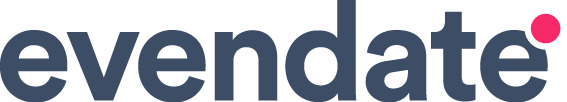
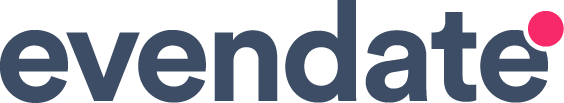
Minor changes in brand

diff --git a/calendar.php b/calendar.php
@@ -206,17 +206,9 @@ $user_full_name = $user->getLastName().' '.$user->getFirstName(); ?>
 
 <aside id="main_sidebar" class="-unselectable">
 	<div class="brand_block Controller" data-page="feed" data-feed_state="timeline" data-title="События">
-		<svg width="140px" height="25px" viewBox="0 0 140 25" version="1.1" xmlns="http://www.w3.org/2000/svg" xmlns:xlink="http://www.w3.org/1999/xlink">
-			<defs>
-				<circle id="evendate_logo_dot" cx="131" cy="7" r="4.3"></circle>
-			</defs>
-			<g fill="none" fill-rule="evenodd">
-				<path id="evendate_logo_text" fill="#9fa6b3" d="M4.50442993,14.1854218 C4.60423908,12.6878788 5.8684882,10.9573847 8.16409844,10.9573847 C10.6925967,10.9573847 11.7572275,12.5547639 11.823767,14.1854218 L4.50442993,14.1854218 Z M12.2562732,18.4450996 C11.7239578,19.9093639 10.5927875,20.9410046 8.53006529,20.9410046 C6.33426419,20.9410046 4.50442993,19.3769042 4.40462079,17.2137865 L16.11556,17.2137865 C16.11556,17.147229 16.1820994,16.4816544 16.1820994,15.8493584 C16.1820994,10.5913186 13.1545555,7.36328146 8.09755902,7.36328146 C3.90557509,7.36328146 0.0462882973,10.7577123 0.0462882973,15.9824734 C0.0462882973,21.5067431 4.00538423,24.7347802 8.49679558,24.7347802 C12.5224309,24.7347802 15.1174686,22.3719902 15.9492115,19.5432978 L12.2562732,18.4450996 Z M33.5250226,7.86246246 L28.8672627,7.86246246 L24.9747062,18.8444444 L20.9158011,7.86246246 L16.0584229,7.86246246 L22.7456353,24.2355992 L27.1705073,24.2355992 L33.5250226,7.86246246 Z M37.6931391,14.1854218 C37.7929482,12.6878788 39.0571974,10.9573847 41.3528076,10.9573847 C43.8813059,10.9573847 44.9459367,12.5547639 45.0124761,14.1854218 L37.6931391,14.1854218 Z M45.4449824,18.4450996 C44.912667,19.9093639 43.7814967,20.9410046 41.7187745,20.9410046 C39.5229734,20.9410046 37.6931391,19.3769042 37.59333,17.2137865 L49.3042692,17.2137865 C49.3042692,17.147229 49.3708086,16.4816544 49.3708086,15.8493584 C49.3708086,10.5913186 46.3432647,7.36328146 41.2862682,7.36328146 C37.0942843,7.36328146 33.2349975,10.7577123 33.2349975,15.9824734 C33.2349975,21.5067431 37.1940934,24.7347802 41.6855048,24.7347802 C45.7111401,24.7347802 48.3061778,22.3719902 49.1379206,19.5432978 L45.4449824,18.4450996 Z M56.0341537,14.8177177 C56.0341537,12.9208299 57.1653239,11.4232869 59.0949673,11.4232869 C61.224229,11.4232869 62.1225113,12.8542725 62.1225113,14.6846028 L62.1225113,24.2355992 L66.5473832,24.2355992 L66.5473832,13.9191919 C66.5473832,10.3250887 64.6842792,7.42983893 60.6253742,7.42983893 C58.8620793,7.42983893 56.8991662,8.1952498 55.9010748,9.89246519 L55.9010748,7.86246246 L51.6092817,7.86246246 L51.6092817,24.2355992 L56.0341537,24.2355992 L56.0341537,14.8177177 Z M85.3874435,0.141796342 L81.029111,0.141796342 L81.029111,9.49312039 C80.563335,8.62787333 79.2325464,7.46311766 76.4046208,7.46311766 C71.7801305,7.46311766 68.5529683,11.2236145 68.5529683,16.0157521 C68.5529683,20.9742834 71.8799397,24.634944 76.5376996,24.634944 C78.7335007,24.634944 80.3969864,23.636582 81.1289201,22.3387114 C81.1289201,23.1041223 81.2287292,23.9028119 81.2952687,24.2355992 L85.5205223,24.2355992 C85.4539829,23.5700246 85.3874435,22.3719902 85.3874435,21.273792 L85.3874435,0.141796342 Z M73.01111,16.0157521 C73.01111,13.0872236 74.8076745,11.4232869 77.070015,11.4232869 C79.3323556,11.4232869 81.0956504,13.0539449 81.0956504,15.9824734 C81.0956504,18.9442806 79.3323556,20.6747748 77.070015,20.6747748 C74.7411351,20.6747748 73.01111,18.9442806 73.01111,16.0157521 L73.01111,16.0157521 Z M87.8255349,19.776249 C87.8255349,22.3387114 89.9547965,24.7015015 93.4481165,24.7015015 C95.8768056,24.7015015 97.4404821,23.5700246 98.272225,22.272154 C98.272225,22.9044499 98.3387644,23.8029757 98.4385735,24.2355992 L102.497479,24.2355992 C102.397669,23.6698608 102.29786,22.5051051 102.29786,21.639858 L102.29786,13.5864046 C102.29786,10.29181 100.368217,7.36328146 95.1781416,7.36328146 C90.7865394,7.36328146 88.4243897,10.1919738 88.158232,12.7544363 L92.0840582,13.5864046 C92.2171371,12.1554191 93.2817679,10.9241059 95.2114113,10.9241059 C97.0745153,10.9241059 97.9727975,11.8891892 97.9727975,13.0539449 C97.9727975,13.6196833 97.6733701,14.0855856 96.7418181,14.2187005 L92.7161828,14.8177177 C89.9880662,15.2170625 87.8255349,16.8477204 87.8255349,19.776249 L87.8255349,19.776249 Z M94.3796685,21.4069069 C92.9490708,21.4069069 92.2504068,20.4751024 92.2504068,19.5100191 C92.2504068,18.2454272 93.148689,17.6131313 94.2798593,17.4467376 L97.9727975,16.8809992 L97.9727975,17.6131313 C97.9727975,20.5083811 96.2427724,21.4069069 94.3796685,21.4069069 L94.3796685,21.4069069 Z M110.857579,2.97048867 L106.865213,2.97048867 L106.865213,5.26672127 C106.865213,6.73098553 106.06674,7.86246246 104.336715,7.86246246 L103.504972,7.86246246 L103.504972,11.789353 L106.465977,11.789353 L106.465977,19.4101829 C106.465977,22.5716626 108.46216,24.4685504 111.656052,24.4685504 C112.953571,24.4685504 113.752044,24.2355992 114.151281,24.0692056 L114.151281,20.4085449 C113.918393,20.4751024 113.319538,20.5416598 112.787222,20.5416598 C111.522973,20.5416598 110.857579,20.0757576 110.857579,18.644772 L110.857579,11.789353 L114.151281,11.789353 L114.151281,7.86246246 L110.857579,7.86246246 L110.857579,2.97048867 Z M119.783265,14.1854218 C119.883074,12.6878788 121.147323,10.9573847 123.442933,10.9573847 C125.971431,10.9573847 127.036062,12.5547639 127.102602,14.1854218 L119.783265,14.1854218 Z M127.535108,18.4450996 C127.002792,19.9093639 125.871622,20.9410046 123.8089,20.9410046 C121.613099,20.9410046 119.783265,19.3769042 119.683455,17.2137865 L131.394395,17.2137865 C131.394395,17.147229 131.460934,16.4816544 131.460934,15.8493584 C131.460934,10.5913186 128.43339,7.36328146 123.376394,7.36328146 C119.18441,7.36328146 115.325123,10.7577123 115.325123,15.9824734 C115.325123,21.5067431 119.284219,24.7347802 123.77563,24.7347802 C127.801266,24.7347802 130.396303,22.3719902 131.228046,19.5432978 L127.535108,18.4450996 Z"></path>
-				<g>
-					<use fill="#f82969" fill-rule="evenodd" xlink:href="#evendate_logo_dot"></use>
-					<use stroke="#fff" stroke-width="1.5" xlink:href="#evendate_logo_dot"></use>
-				</g>
-			</g>
+		<svg width="135px" height="24.70001px" xmlns="http://www.w3.org/2000/svg" viewBox="0 0 135 24.70001">
+			<path id="evendate_logo_text" transform="translate(-2.375 -0.69998)" fill="#9fa6b3" d="M18.675,16.4c0-5.3-3-8.5-8.1-8.5a8.42015,8.42015,0,0,0-8.2,8.7,8.38058,8.38058,0,0,0,8.5,8.8,7.55515,7.55515,0,0,0,7.5-5.2l-3.7-1.2a3.57051,3.57051,0,0,1-3.7,2.5,3.98288,3.98288,0,0,1-4.1-3.7h11.7A13.80487,13.80487,0,0,0,18.675,16.4Zm-11.8-1.6a3.55717,3.55717,0,0,1,3.7-3.2,3.363,3.363,0,0,1,3.7,3.2h-7.4Zm24.3-6.3-3.9,11-4.1-11h-4.9l6.7,16.4h4.4l6.5-16.4h-4.7Zm20.6,7.9c0-5.3-3-8.5-8.1-8.5a8.25038,8.25038,0,0,0-8.1,8.6,8.38058,8.38058,0,0,0,8.5,8.8,7.55522,7.55522,0,0,0,7.5-5.2l-3.8-1.1a3.57051,3.57051,0,0,1-3.7,2.5,3.98293,3.98293,0,0,1-4.1-3.7h11.7A13.79661,13.79661,0,0,0,51.775,16.4Zm-11.7-1.6a3.55712,3.55712,0,0,1,3.7-3.2,3.36289,3.36289,0,0,1,3.7,3.2h-7.4ZM62.975,8a5.385,5.385,0,0,0-4.7,2.5v-2h-4.3V24.9h4.4V15.4c0-1.9,1.1-3.4,3.1-3.4,2.1,0,3,1.4,3,3.3v9.6h4.4V14.5C68.875,10.9,66.975,8,62.975,8Zm24.8,13.9V0.7h-4.4v9.4c-0.5-.9-1.8-2-4.6-2-4.6,0-7.9,3.8-7.9,8.6,0,5,3.3,8.6,8,8.6a5.101,5.101,0,0,0,4.6-2.3,7.75394,7.75394,0,0,0,.2,1.9h4.2A26.28237,26.28237,0,0,1,87.775,21.9Zm-8.3-.6c-2.4,0-4.1-1.8-4.1-4.7s1.8-4.6,4.1-4.6,4,1.6,4,4.6S81.675,21.3,79.475,21.3Zm25.2,1V14.2c0-3.3-1.9-6.2-7.1-6.2-4.4,0-6.8,2.8-7,5.4l3.9,0.8a2.92541,2.92541,0,0,1,3.1-2.7c1.9,0,2.8,1,2.8,2.1a1.19858,1.19858,0,0,1-1.2,1.2l-4,.6c-2.8.4-5,2-5,5,0,2.6,2.1,4.9,5.6,4.9a5.40058,5.40058,0,0,0,4.8-2.4,12.30577,12.30577,0,0,0,.2,2h4.1A18.36784,18.36784,0,0,1,104.675,22.3Zm-4.3-4.2c0,3-1.8,3.9-3.6,3.9a1.89565,1.89565,0,0,1-2.1-1.9,2.094,2.094,0,0,1,2-2.1l3.7-.6v0.7Zm16.3-5.8V8.5h-3.3V3.6h-4.1V5.9a2.33883,2.33883,0,0,1-2.5,2.6h-0.8v3.9h3V20c0,3.2,2,5.1,5.2,5.1a5.9567,5.9567,0,0,0,2.5-.4V21a4.92317,4.92317,0,0,1-1.4.1,1.61828,1.61828,0,0,1-1.9-1.9V12.3h3.3Zm17.2,4.1a10.91279,10.91279,0,0,0-.47-3.3h-0.03a5.49026,5.49026,0,0,1-5.47-4.98,9.60458,9.60458,0,0,0-2.13-.22,8.25043,8.25043,0,0,0-8.1,8.6,8.38058,8.38058,0,0,0,8.5,8.8,7.55517,7.55517,0,0,0,7.5-5.2l-3.8-1.1a3.57051,3.57051,0,0,1-3.7,2.5,3.98284,3.98284,0,0,1-4.1-3.7h11.7A13.80487,13.80487,0,0,0,133.875,16.4Zm-11.7-1.6a3.55721,3.55721,0,0,1,3.7-3.2,3.363,3.363,0,0,1,3.7,3.2h-7.4Z"></path>
+			<circle id="evendate_logo_dot" cx="131" cy="6.90002" r="4" fill="#f82969"></circle>
 		</svg>
 		<img class="brand" src="/app/img/brand.png">
 	</div>
